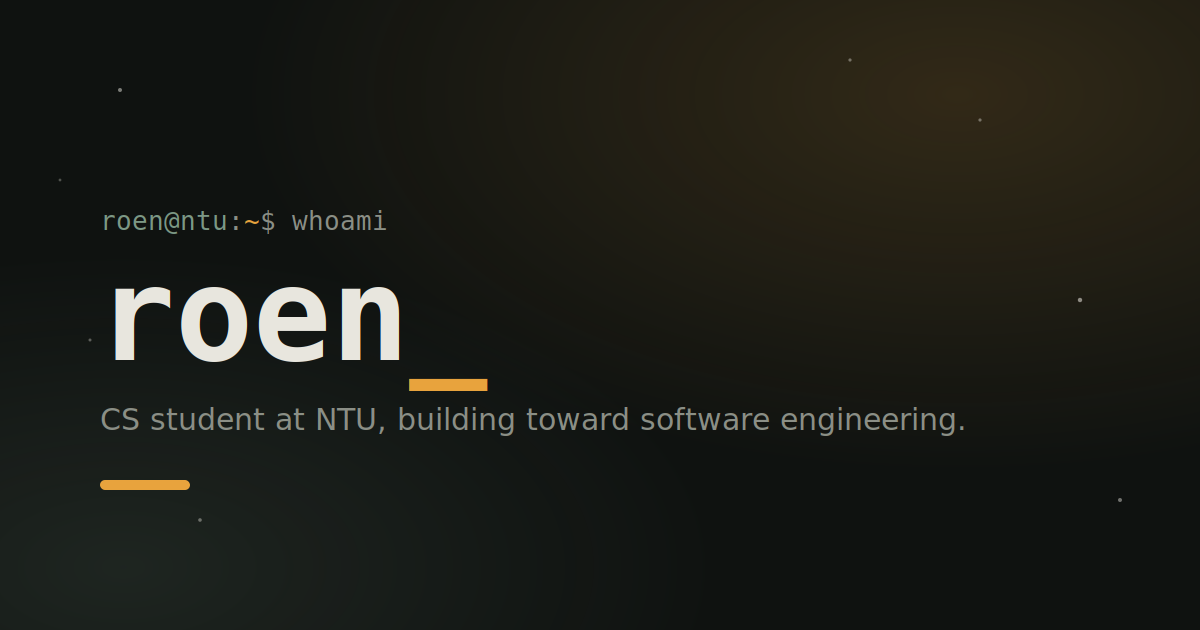
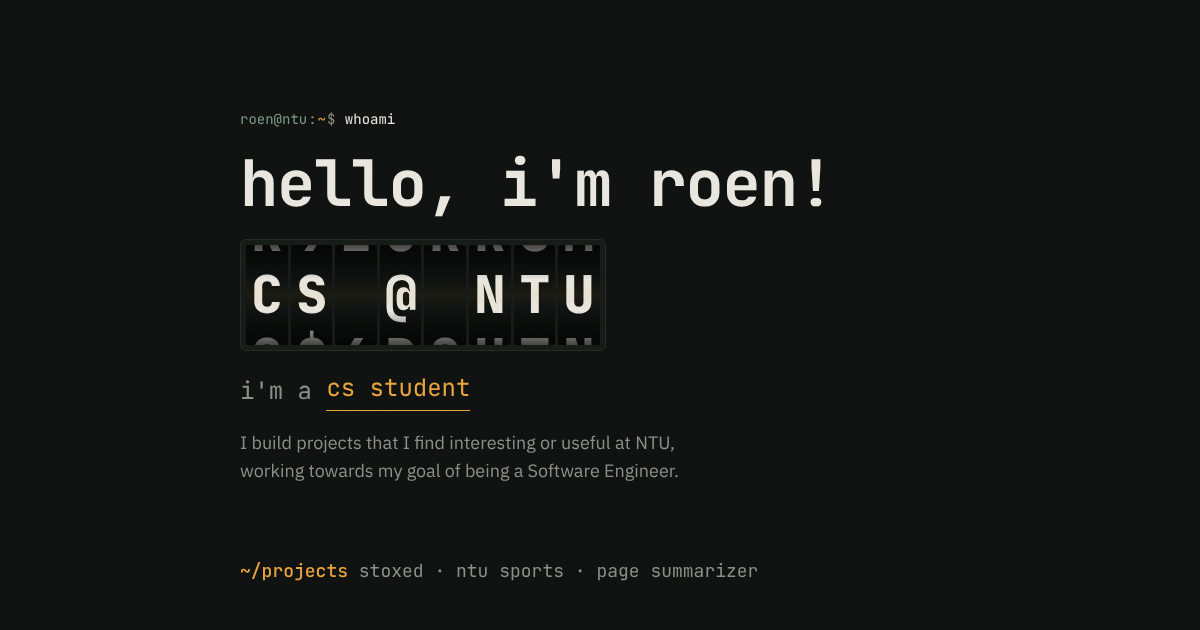
Replace the share image with the current hero
The July og-image showed the old hero. The new one is the live hero at
1200x630 (counter on CS @ NTU) with the three lead projects underneath.
The meta tags add ?v=2 so LinkedIn, Telegram and others refetch it
instead of serving their cached copy.

Claude-Session: https://claude.ai/code/session_011sbuTaWqiWmAdDKvjPvb7H

diff --git a/index.html b/index.html
@@ -23,14 +23,14 @@
 <meta property="og:url" content="https://roennn.vercel.app/">
 <meta property="og:title" content="roen - CS @ NTU">
 <meta property="og:description" content="Computer science student at NTU. Building projects that I find interesting or useful, heading toward software engineering.">
-<meta property="og:image" content="https://roennn.vercel.app/og-image.png">
+<meta property="og:image" content="https://roennn.vercel.app/og-image.png?v=2">
 <meta property="og:image:width" content="1200">
 <meta property="og:image:height" content="630">
 
 <meta name="twitter:card" content="summary_large_image">
 <meta name="twitter:title" content="roen - CS @ NTU">
 <meta name="twitter:description" content="Computer science student at NTU. Building projects that I find interesting or useful, heading toward software engineering.">
-<meta name="twitter:image" content="https://roennn.vercel.app/og-image.png">
+<meta name="twitter:image" content="https://roennn.vercel.app/og-image.png?v=2">
 
 <link rel="preconnect" href="https://fonts.googleapis.com">
 <link rel="preconnect" href="https://fonts.gstatic.com" crossorigin>

diff --git a/playground.html b/playground.html
@@ -23,11 +23,11 @@
 <meta property="og:url" content="https://roennn.vercel.app/playground.html">
 <meta property="og:title" content="playground - roen">
 <meta property="og:description" content="A small handwritten terminal to poke around in. Try 'help'.">
-<meta property="og:image" content="https://roennn.vercel.app/og-image.png">
+<meta property="og:image" content="https://roennn.vercel.app/og-image.png?v=2">
 
 <meta name="twitter:card" content="summary_large_image">
 <meta name="twitter:title" content="playground - roen">
-<meta name="twitter:image" content="https://roennn.vercel.app/og-image.png">
+<meta name="twitter:image" content="https://roennn.vercel.app/og-image.png?v=2">
 
 <link rel="preconnect" href="https://fonts.googleapis.com">
 <link rel="preconnect" href="https://fonts.gstatic.com" crossorigin>
